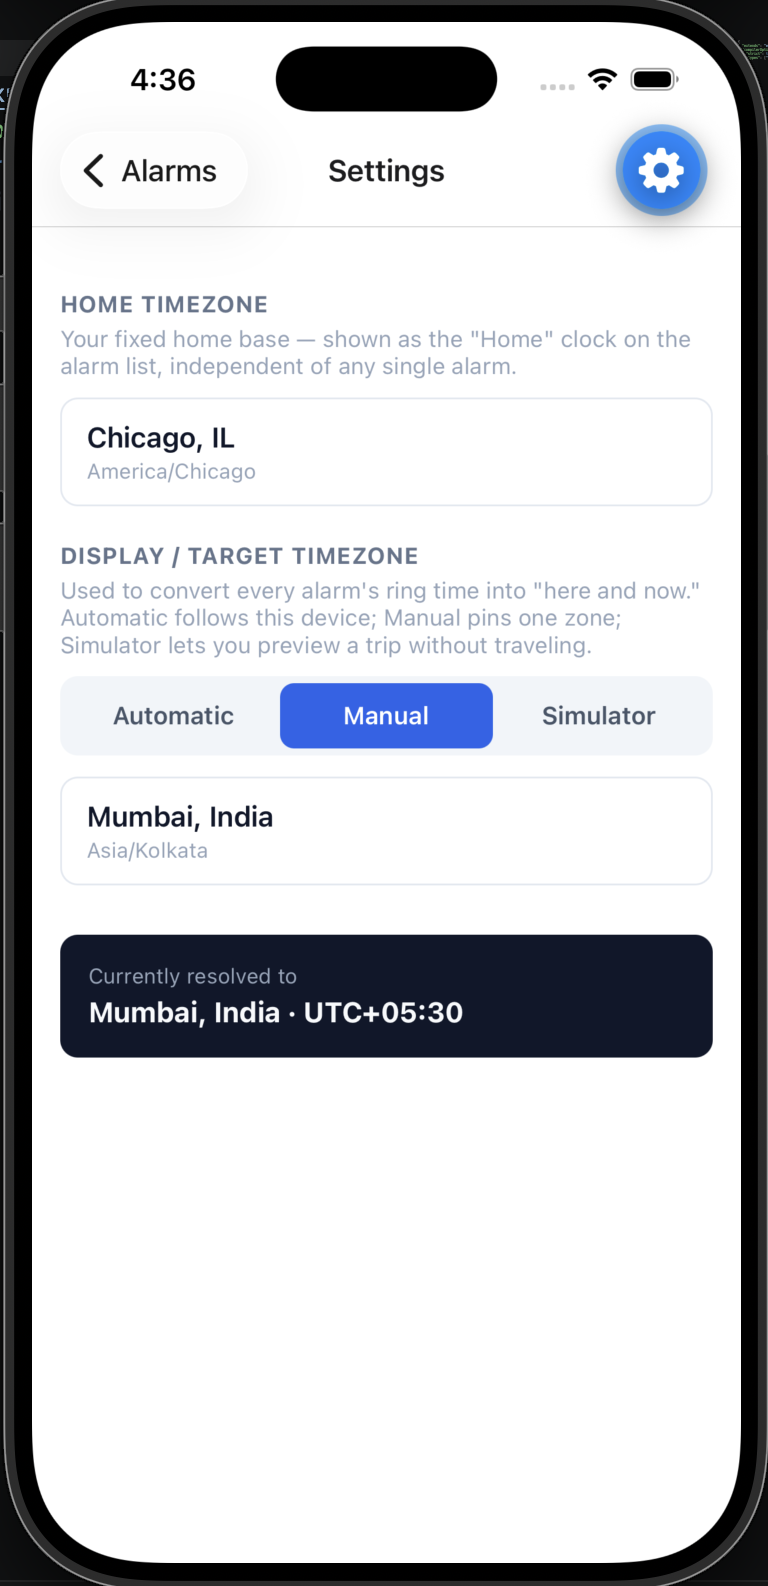
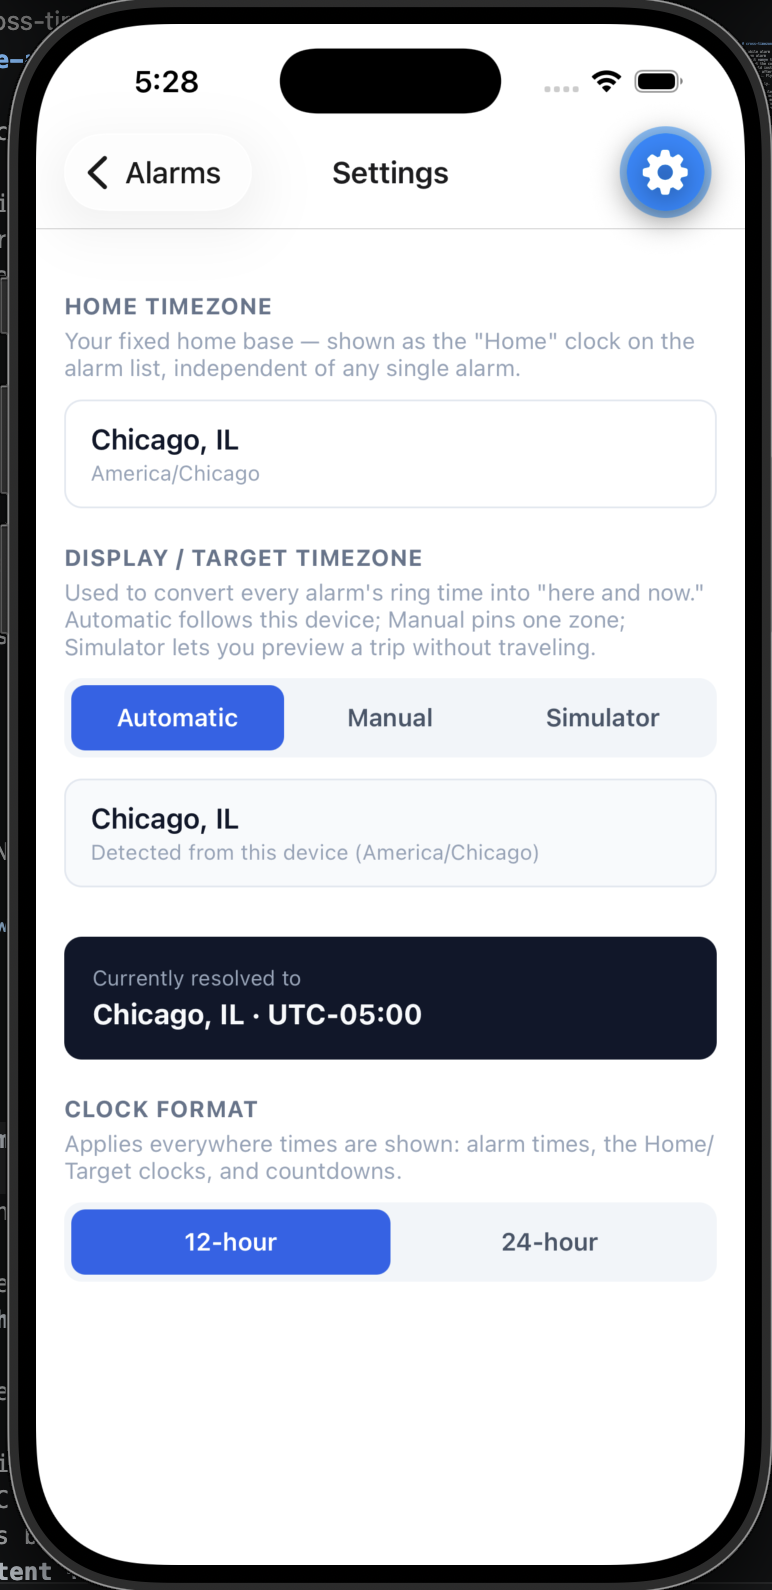
Add 24 hr clock feature in settings

diff --git a/src/components/DualClockHeader.tsx b/src/components/DualClockHeader.tsx
@@ -7,27 +7,43 @@ import { getZoneLabel } from '../data/timezoneCities';
 interface Props {
   homeTimeZone: string;
   targetTimeZone: string;
+  use24Hour: boolean;
 }
 
 /** Persistent header: always shows Home time alongside Target/Local time, live-ticking. */
-export function DualClockHeader({ homeTimeZone, targetTimeZone }: Props) {
+export function DualClockHeader({ homeTimeZone, targetTimeZone, use24Hour }: Props) {
   const now = useNow();
   const sameZone = homeTimeZone === targetTimeZone;
 
   return (
     <View style={styles.container}>
-      <ClockBlock label="HOME" zone={homeTimeZone} now={now} />
+      <ClockBlock label="HOME" zone={homeTimeZone} now={now} use24Hour={use24Hour} />
       <View style={styles.divider} />
-      <ClockBlock label={sameZone ? 'TARGET (same as home)' : 'TARGET'} zone={targetTimeZone} now={now} />
+      <ClockBlock
+        label={sameZone ? 'TARGET (same as home)' : 'TARGET'}
+        zone={targetTimeZone}
+        now={now}
+        use24Hour={use24Hour}
+      />
     </View>
   );
 }
 
-function ClockBlock({ label, zone, now }: { label: string; zone: string; now: ReturnType<typeof useNow> }) {
+function ClockBlock({
+  label,
+  zone,
+  now,
+  use24Hour,
+}: {
+  label: string;
+  zone: string;
+  now: ReturnType<typeof useNow>;
+  use24Hour: boolean;
+}) {
   return (
     <View style={styles.block}>
       <Text style={styles.label}>{label}</Text>
-      <Text style={styles.time}>{formatClock(zone, now)}</Text>
+      <Text style={styles.time}>{formatClock(zone, now, use24Hour)}</Text>
       <Text style={styles.sub}>{getZoneLabel(zone)}</Text>
       <Text style={styles.sub}>{formatZoneDateLabel(zone, now)}</Text>
     </View>

diff --git a/src/screens/SettingsScreen.tsx b/src/screens/SettingsScreen.tsx
@@ -24,6 +24,7 @@ export function SettingsScreen({ navigation }: Props) {
     setDisplayTimeZoneMode,
     setManualTimeZone,
     setSimulatorTimeZone,
+    setUse24HourClock,
   } = useSettings();
 
   const openPicker = (title: string, onSelect: (zone: string) => void) => {
@@ -112,6 +113,29 @@ export function SettingsScreen({ navigation }: Props) {
         <Text style={styles.resolvedValue}>
           {getZoneLabel(displayTimeZone)} · UTC{currentOffset}
         </Text>
+      </View>
+
+      <Text style={styles.sectionLabel}>Clock format</Text>
+      <Text style={styles.helper}>
+        Applies everywhere times are shown: alarm times, the Home/Target clocks, and countdowns.
+      </Text>
+      <View style={styles.segmentRow}>
+        <Pressable
+          style={[styles.segment, !settings.use24HourClock && styles.segmentActive]}
+          onPress={() => setUse24HourClock(false)}
+        >
+          <Text style={[styles.segmentText, !settings.use24HourClock && styles.segmentTextActive]}>
+            12-hour
+          </Text>
+        </Pressable>
+        <Pressable
+          style={[styles.segment, settings.use24HourClock && styles.segmentActive]}
+          onPress={() => setUse24HourClock(true)}
+        >
+          <Text style={[styles.segmentText, settings.use24HourClock && styles.segmentTextActive]}>
+            24-hour
+          </Text>
+        </Pressable>
       </View>
     </ScrollView>
   );

diff --git a/src/utils/time.ts b/src/utils/time.ts
@@ -2,15 +2,23 @@ import { DateTime } from 'luxon';
 import { Alarm } from '../domain/alarm';
 import { getZoneLabel } from '../data/timezoneCities';
 
-export function formatOriginalIntent(alarm: Alarm): string {
+const TIME_FORMAT_12H = 'h:mm a';
+const TIME_FORMAT_24H = 'HH:mm';
+
+function timeFormat(use24Hour: boolean): string {
+  return use24Hour ? TIME_FORMAT_24H : TIME_FORMAT_12H;
+}
+
+export function formatOriginalIntent(alarm: Alarm, use24Hour: boolean): string {
   const time = DateTime.fromObject({ hour: alarm.hour, minute: alarm.minute });
-  return `${time.toFormat('h:mm a')} · ${getZoneLabel(alarm.sourceTimeZone)}`;
+  return `${time.toFormat(timeFormat(use24Hour))} · ${getZoneLabel(alarm.sourceTimeZone)}`;
 }
 
 export function formatConvertedTime(
   nextFireUTC: string | null,
   displayTimeZone: string,
-  now: DateTime
+  now: DateTime,
+  use24Hour: boolean
 ): string {
   if (!nextFireUTC) return 'Not scheduled';
 
@@ -26,7 +34,7 @@ export function formatConvertedTime(
     dayLabel = fireInstant.toFormat('ccc, LLL d');
   }
 
-  return `${fireInstant.toFormat('h:mm a')} ${dayLabel}, UTC${fireInstant.toFormat('ZZ')}`;
+  return `${fireInstant.toFormat(timeFormat(use24Hour))} ${dayLabel}, UTC${fireInstant.toFormat('ZZ')}`;
 }
 
 export function formatCountdown(nextFireUTC: string | null, now: DateTime): string {
@@ -42,8 +50,8 @@ export function formatCountdown(nextFireUTC: string | null, now: DateTime): stri
   return hours > 0 ? `Rings in ${hours}h ${minutes}m` : `Rings in ${minutes}m`;
 }
 
-export function formatClock(zone: string, now: DateTime): string {
-  return now.setZone(zone).toFormat('h:mm:ss a');
+export function formatClock(zone: string, now: DateTime, use24Hour: boolean): string {
+  return now.setZone(zone).toFormat(use24Hour ? 'HH:mm:ss' : 'h:mm:ss a');
 }
 
 export function formatZoneDateLabel(zone: string, now: DateTime): string {

diff --git a/src/components/AlarmCard.tsx b/src/components/AlarmCard.tsx
@@ -10,11 +10,12 @@ const DAY_LABELS = ['S', 'M', 'T', 'W', 'T', 'F', 'S'];
 interface Props {
   alarm: Alarm;
   displayTimeZone: string;
+  use24Hour: boolean;
   onToggle: (enabled: boolean) => void;
   onPress: () => void;
 }
 
-export function AlarmCard({ alarm, displayTimeZone, onToggle, onPress }: Props) {
+export function AlarmCard({ alarm, displayTimeZone, use24Hour, onToggle, onPress }: Props) {
   const now = useNow(30_000); // converted-time label only needs coarse refresh, not per-second
 
   const repeatSummary =
@@ -33,9 +34,9 @@ export function AlarmCard({ alarm, displayTimeZone, onToggle, onPress }: Props) 
         <Switch value={alarm.enabled} onValueChange={onToggle} />
       </View>
 
-      <Text style={styles.original}>{formatOriginalIntent(alarm)}</Text>
+      <Text style={styles.original}>{formatOriginalIntent(alarm, use24Hour)}</Text>
       <Text style={styles.converted}>
-        → {formatConvertedTime(alarm.nextFireUTC, displayTimeZone, now)}
+        → {formatConvertedTime(alarm.nextFireUTC, displayTimeZone, now, use24Hour)}
       </Text>
 
       <View style={styles.footerRow}>

diff --git a/src/screens/AlarmListScreen.tsx b/src/screens/AlarmListScreen.tsx
@@ -15,7 +15,11 @@ export function AlarmListScreen({ navigation }: Props) {
 
   return (
     <View style={styles.container}>
-      <DualClockHeader homeTimeZone={settings.homeTimeZone} targetTimeZone={displayTimeZone} />
+      <DualClockHeader
+        homeTimeZone={settings.homeTimeZone}
+        targetTimeZone={displayTimeZone}
+        use24Hour={settings.use24HourClock}
+      />
 
       <FlatList
         data={alarms}
@@ -30,6 +34,7 @@ export function AlarmListScreen({ navigation }: Props) {
           <AlarmCard
             alarm={item}
             displayTimeZone={displayTimeZone}
+            use24Hour={settings.use24HourClock}
             onToggle={(enabled) => setAlarmEnabled(item.id, enabled)}
             onPress={() => navigation.navigate('AlarmEdit', { alarmId: item.id })}
           />

diff --git a/src/state/SettingsContext.tsx b/src/state/SettingsContext.tsx
@@ -20,6 +20,7 @@ interface SettingsContextValue {
   setDisplayTimeZoneMode: (mode: DisplayTimeZoneMode) => void;
   setManualTimeZone: (zone: string) => void;
   setSimulatorTimeZone: (zone: string) => void;
+  setUse24HourClock: (use24Hour: boolean) => void;
 }
 
 const SettingsContext = createContext<SettingsContextValue | undefined>(undefined);
@@ -79,6 +80,10 @@ export function SettingsProvider({ children }: { children: React.ReactNode }) {
     }));
   }, []);
 
+  const setUse24HourClock = useCallback((use24Hour: boolean) => {
+    setSettings((prev) => ({ ...prev, use24HourClock: use24Hour }));
+  }, []);
+
   const displayTimeZone = useMemo(
     () => resolveDisplayTimeZone(settings, deviceTimeZone),
     [settings, deviceTimeZone]
@@ -94,6 +99,7 @@ export function SettingsProvider({ children }: { children: React.ReactNode }) {
       setDisplayTimeZoneMode,
       setManualTimeZone,
       setSimulatorTimeZone,
+      setUse24HourClock,
     }),
     [
       settings,
@@ -104,6 +110,7 @@ export function SettingsProvider({ children }: { children: React.ReactNode }) {
       setDisplayTimeZoneMode,
       setManualTimeZone,
       setSimulatorTimeZone,
+      setUse24HourClock,
     ]
   );
 

diff --git a/src/domain/displayTimeZone.ts b/src/domain/displayTimeZone.ts
@@ -17,3 +17,8 @@ export function resolveDisplayTimeZone(settings: Settings, deviceTimeZone: strin
 export function getDeviceTimeZone(): string {
   return Intl.DateTimeFormat().resolvedOptions().timeZone;
 }
+
+/** Locale-based default for the 12h/24h clock setting, used only to seed it on first launch. */
+export function detectUses24HourClock(): boolean {
+  return Intl.DateTimeFormat(undefined, { hour: 'numeric' }).resolvedOptions().hour12 === false;
+}

diff --git a/src/notifications/notificationScheduler.ts b/src/notifications/notificationScheduler.ts
@@ -1,6 +1,7 @@
 import * as Notifications from 'expo-notifications';
 import { SchedulableTriggerInputTypes } from 'expo-notifications';
 import { Alarm } from '../domain/alarm';
+import { loadSettings } from '../data/settingsRepository';
 import { formatOriginalIntent } from '../utils/time';
 
 Notifications.setNotificationHandler({
@@ -46,11 +47,13 @@ export async function scheduleAlarmNotification(alarm: Alarm): Promise<string | 
   const fireDate = new Date(alarm.nextFireUTC);
   if (fireDate.getTime() <= Date.now()) return undefined;
 
+  const { use24HourClock } = await loadSettings();
+
   try {
     return await Notifications.scheduleNotificationAsync({
       content: {
         title: alarm.label || 'Alarm',
-        body: formatOriginalIntent(alarm),
+        body: formatOriginalIntent(alarm, use24HourClock),
         sound: true,
         data: { alarmId: alarm.id },
       },

diff --git a/src/data/settingsRepository.ts b/src/data/settingsRepository.ts
@@ -1,6 +1,6 @@
 import AsyncStorage from '@react-native-async-storage/async-storage';
 import { Settings } from '../domain/alarm';
-import { getDeviceTimeZone } from '../domain/displayTimeZone';
+import { detectUses24HourClock, getDeviceTimeZone } from '../domain/displayTimeZone';
 
 const STORAGE_KEY = '@cross_timezone_alarms/settings';
 
@@ -8,6 +8,7 @@ export function defaultSettings(): Settings {
   return {
     homeTimeZone: getDeviceTimeZone(),
     displayTimeZoneMode: 'automatic',
+    use24HourClock: detectUses24HourClock(),
   };
 }
 

diff --git a/src/screens/AlarmEditScreen.tsx b/src/screens/AlarmEditScreen.tsx
@@ -116,7 +116,7 @@ export function AlarmEditScreen({ route, navigation }: Props) {
       {Platform.OS !== 'ios' && (
         <Pressable style={styles.rowButton} onPress={() => setShowTimePicker(true)}>
           <Text style={styles.rowButtonText}>
-            {DateTime.fromJSDate(timeValue).toFormat('h:mm a')}
+            {DateTime.fromJSDate(timeValue).toFormat(settings.use24HourClock ? 'HH:mm' : 'h:mm a')}
           </Text>
         </Pressable>
       )}
@@ -124,6 +124,7 @@ export function AlarmEditScreen({ route, navigation }: Props) {
         <DateTimePicker
           value={timeValue}
           mode="time"
+          is24Hour={settings.use24HourClock}
           display={Platform.OS === 'ios' ? 'spinner' : 'default'}
           onChange={onTimeChange}
         />

diff --git a/src/domain/alarm.ts b/src/domain/alarm.ts
@@ -21,6 +21,7 @@ export interface Settings {
   displayTimeZoneMode: DisplayTimeZoneMode;
   manualTimeZone?: string; // IANA zone, used when mode === 'manual'
   simulatorTimeZone?: string; // IANA zone, used when mode === 'simulator'
+  use24HourClock: boolean; // true = "18:00", false = "6:00 PM"
 }
 
 export function isRecurring(alarm: Pick<Alarm, 'repeatDays'>): boolean {